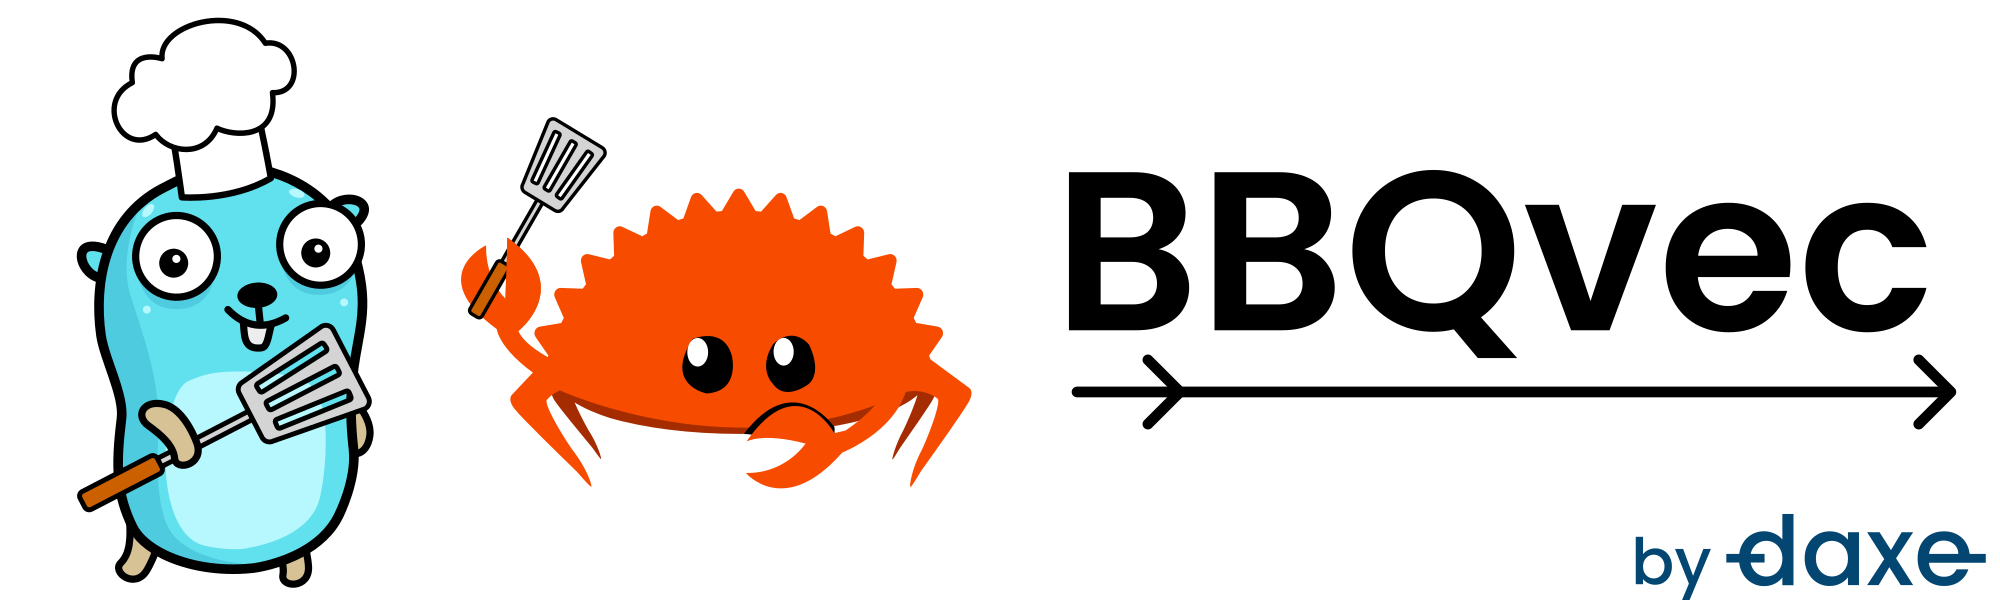
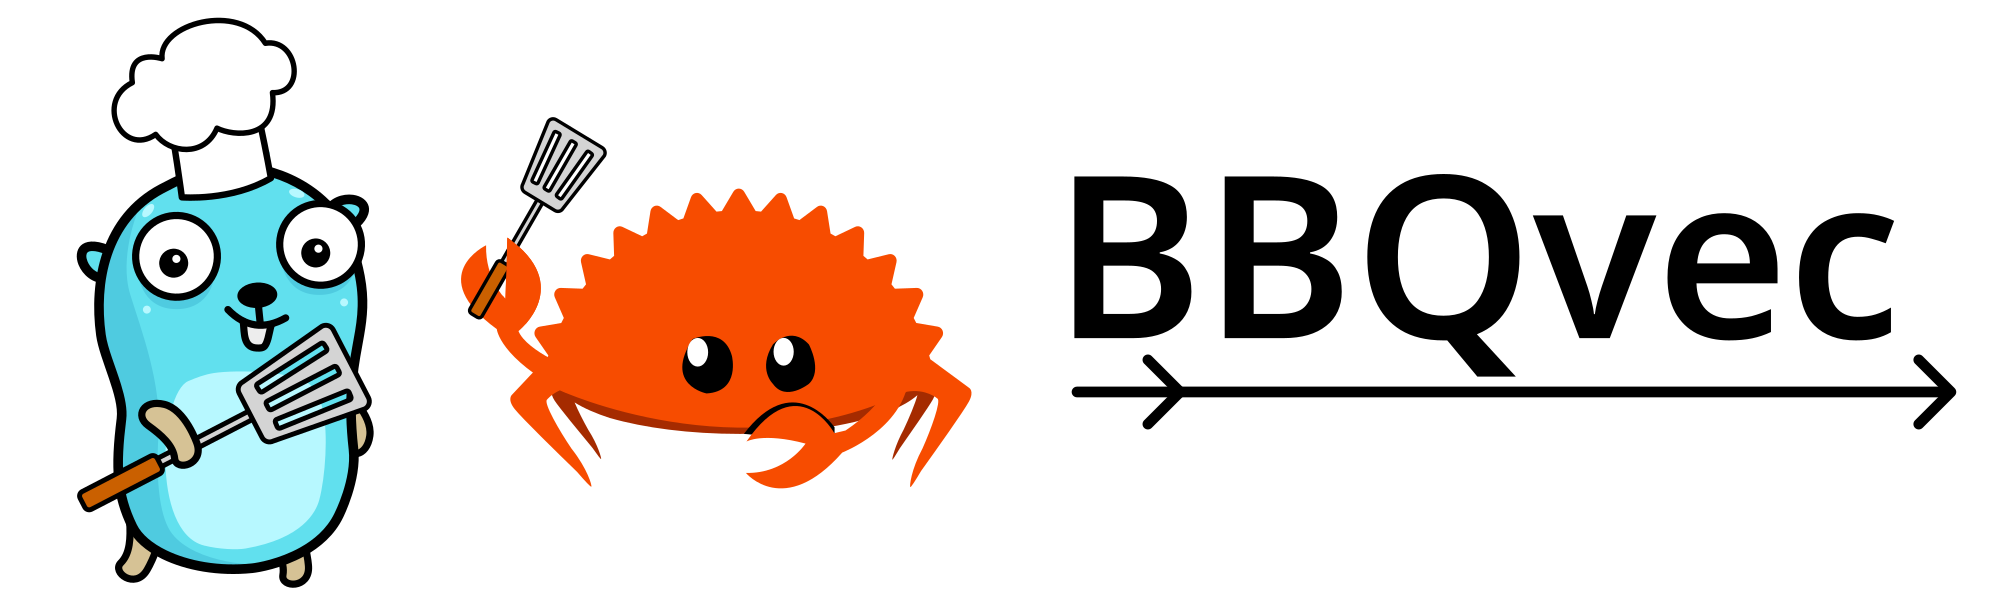
no more daxe

Changed region(s): [[0.527, 0.27, 0.961, 0.63], [0.806, 0.87, 0.992, 1.0]]

diff --git a/cmd/run-ann-benchmark/main.go b/cmd/run-ann-benchmark/main.go
@@ -16,7 +16,7 @@ import (
 	"sync/atomic"
 	"time"
 
-	bbq "github.com/daxe-ai/bbqvec"
+	bbq "github.com/barakmich/bbqvec"
 )
 
 var (

diff --git a/README.md b/README.md
@@ -1,15 +1,13 @@
 ![BBQvec Logo](.github/bbqvec.png)
 
 ![Status](https://img.shields.io/badge/status-beta-blue)
-[![license](https://img.shields.io/github/license/daxe-ai/bbqvec)](LICENSE)
-[![GoDoc](https://godoc.org/github.com/daxe-ai/bbqvec?status.svg)](https://godoc.org/github.com/daxe-ai/bbqvec)
+[![license](https://img.shields.io/github/license/barakmich/bbqvec)](LICENSE)
+[![GoDoc](https://godoc.org/github.com/barakmich/bbqvec?status.svg)](https://godoc.org/github.com/barakmich/bbqvec)
 [![Crates.io](https://img.shields.io/crates/v/bbqvec)](https://crates.io/crates/bbqvec)
-[![Go CI](https://github.com/daxe-ai/bbqvec/actions/workflows/go.yml/badge.svg)](https://github.com/daxe-ai/bbqvec/actions/workflows/go.yml)
-[![Rust CI](https://github.com/daxe-ai/bbqvec/actions/workflows/rust.yml/badge.svg)](https://github.com/daxe-ai/bbqvec/actions/workflows/rust.yml)
+[![Go CI](https://github.com/barakmich/bbqvec/actions/workflows/go.yml/badge.svg)](https://github.com/barakmich/bbqvec/actions/workflows/go.yml)
+[![Rust CI](https://github.com/barakmich/bbqvec/actions/workflows/rust.yml/badge.svg)](https://github.com/barakmich/bbqvec/actions/workflows/rust.yml)
 
 BBQvec is an open-source, embedded vector database index for Go and Rust, providing approximate K-nearest-neighbors (aKNN).
-
-[Read more about the algorithm on our blog!](https://open.substack.com/pub/daxeblog/p/bbqvec-a-scalable-vector-search-library?r=4gk2js&utm_campaign=post&utm_medium=web&showWelcomeOnShare=true)
 
 # Getting Started
 
@@ -21,7 +19,7 @@ package main
 import (
   "fmt"
 
-  bbq "github.com/daxe-ai/bbqvec"
+  bbq "github.com/barakmich/bbqvec"
 )
 
 func main() {
